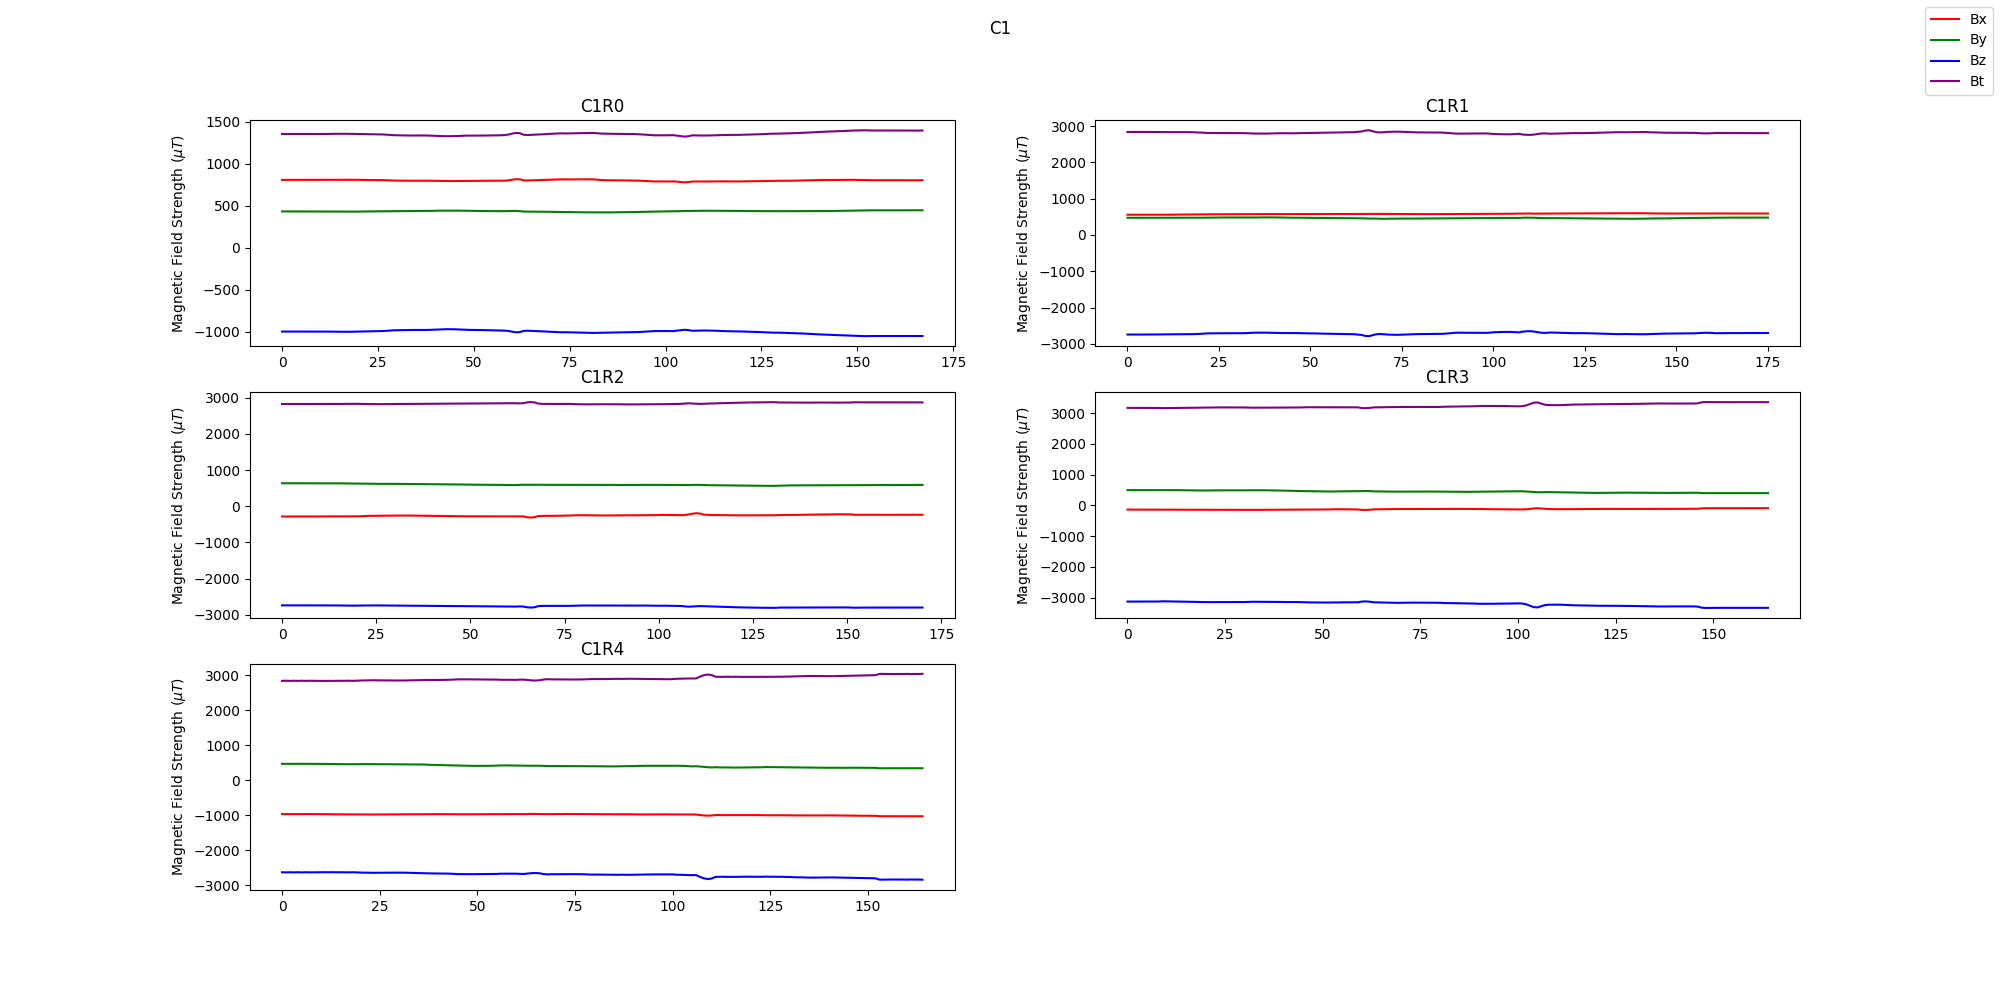
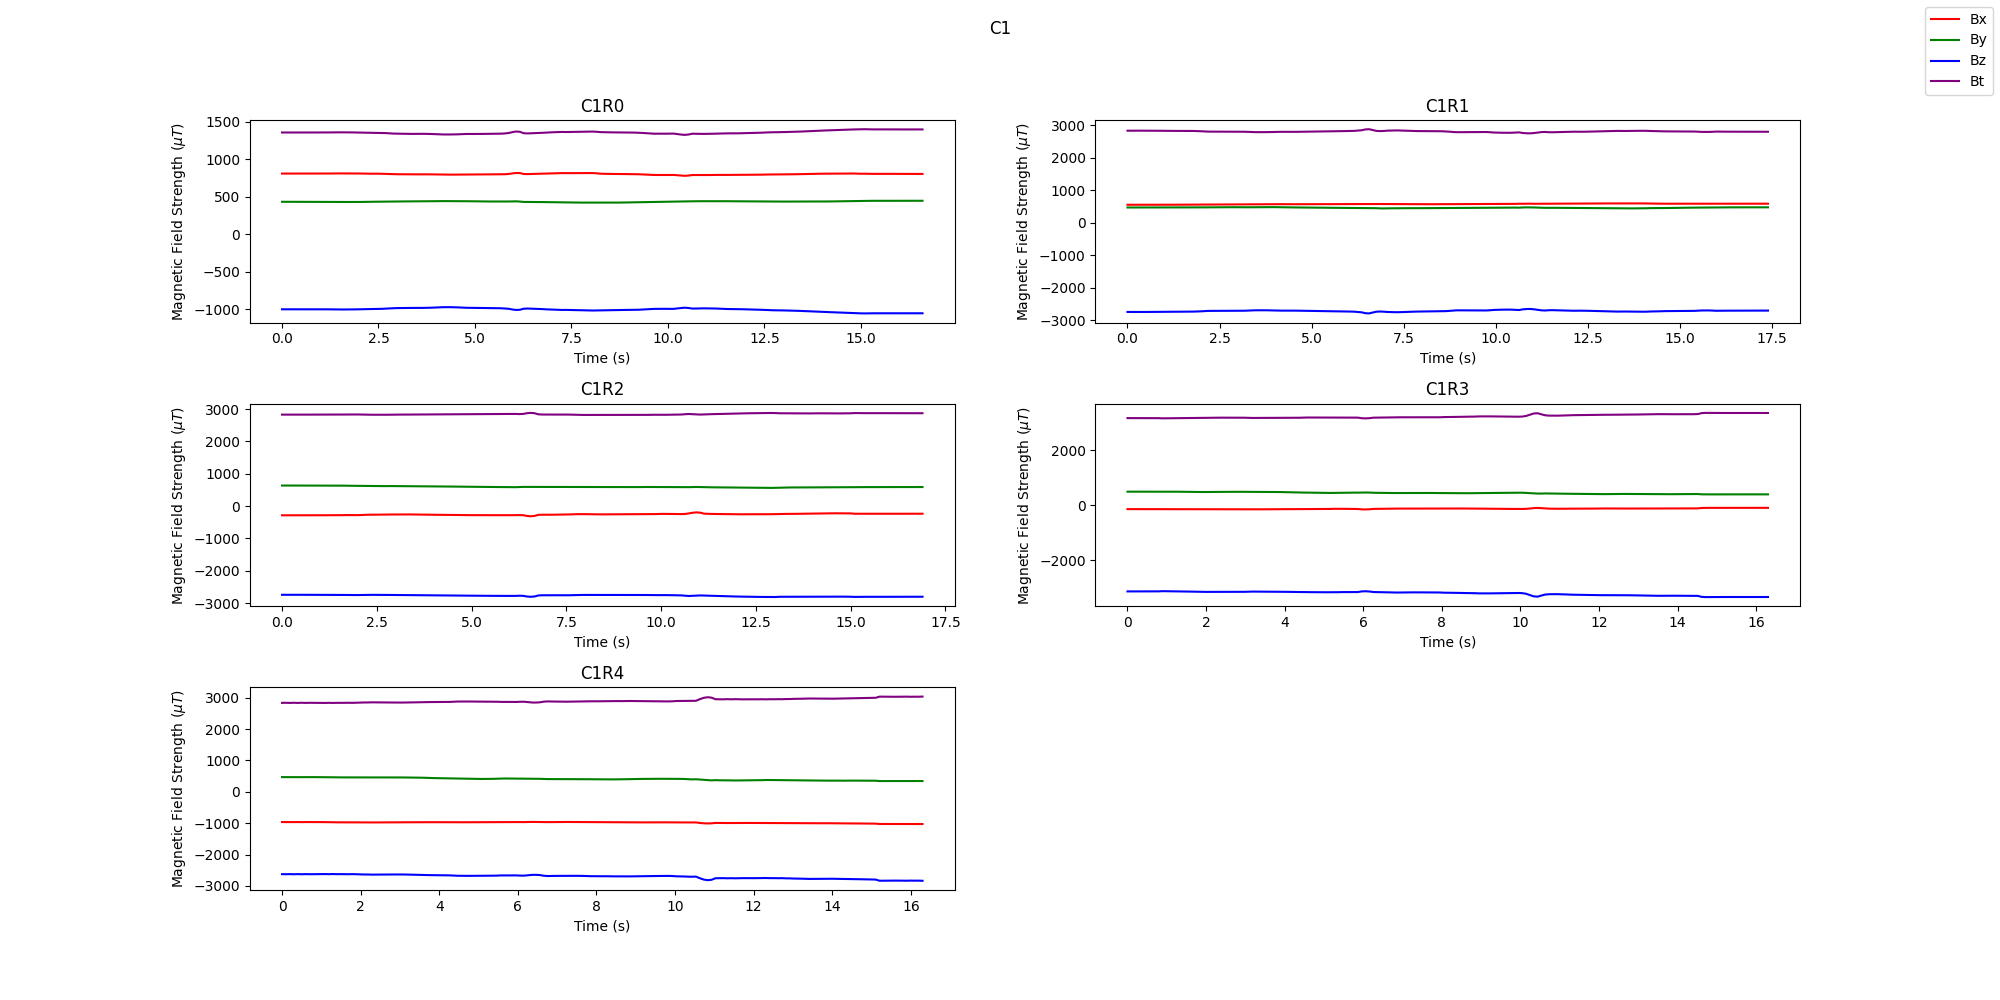
changed x-axis to be in seconds

diff --git a/python/graph_weld.py b/python/graph_weld.py
@@ -20,9 +20,24 @@ for file in files:
     Bx = data.loc[:, "Bx"]
     By = data.loc[:, "By"]
     Bz = data.loc[:, "Bz"]
-    Bt = data.loc[:, "Btotal"] # total magnetic field        plt.figsize(20, 10)
-    time_idx = 11 # start index of time in date+time string in DataFrame
-    t = list(range(0, len(Bx))) # time indices
+    Bt = data.loc[:, "Btotal"] # total magnetic field  
+    times = data.loc[:, "time"]
+
+    seconds = [] # list of all times in seconds for current file
+    for time in times:
+        time = time[11:]
+        time_list = time.split(":")
+        hour = float(time_list[0])
+        minute = float(time_list[1])
+        second = float(time_list[2])
+        total_seconds = 3600*hour + 60*minute + second
+        seconds.append(total_seconds)
+
+    # calculate time elapsed vector
+    t = [0]
+    for i in range(1, len(seconds)):
+        delta_t = seconds[i] - seconds[i-1]
+        t.append(t[i-1] + delta_t)
 
     # Plotting
     plt.subplot(3, 2, r+1)
@@ -30,6 +45,7 @@ for file in files:
     plt.plot(t, By, 'g')
     plt.plot(t, Bz, 'b')
     plt.plot(t, Bt, 'purple')
+    plt.xlabel("Time (s)")
     plt.ylabel("Magnetic Field Strength (" + r'$\mu T$' + ")")
     plt.title(f"C{c}R{r}")
 
@@ -38,10 +54,10 @@ for file in files:
     # finish current column and prepare to start new one
     if r == 5:
         plt.figlegend(['Bx', 'By', 'Bz', 'Bt'])
+        plt.subplots_adjust(hspace=0.4)
         plt.suptitle(f"C{c}") 
-        plt.savefig(os.path.join(dir, f'C{c}'))
+        plt.savefig(os.path.join(dir, f'C{c}')) # save figure to chosen directory
         r = 0 
         c += 1 
-
 # display all figures created
 plt.show()
